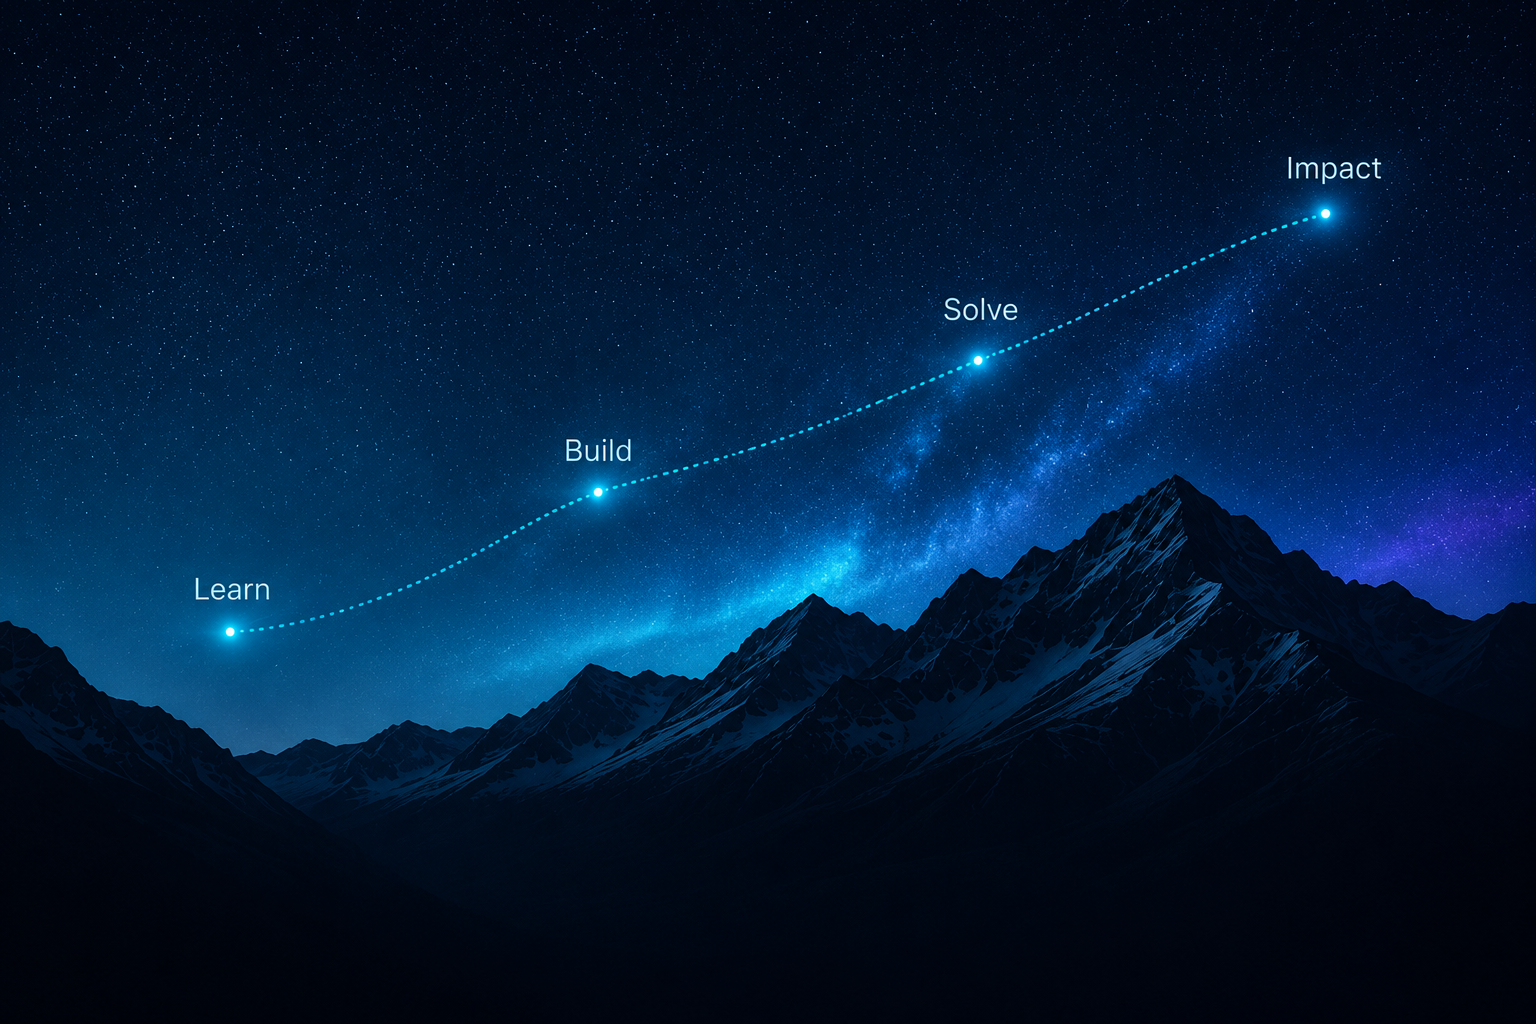
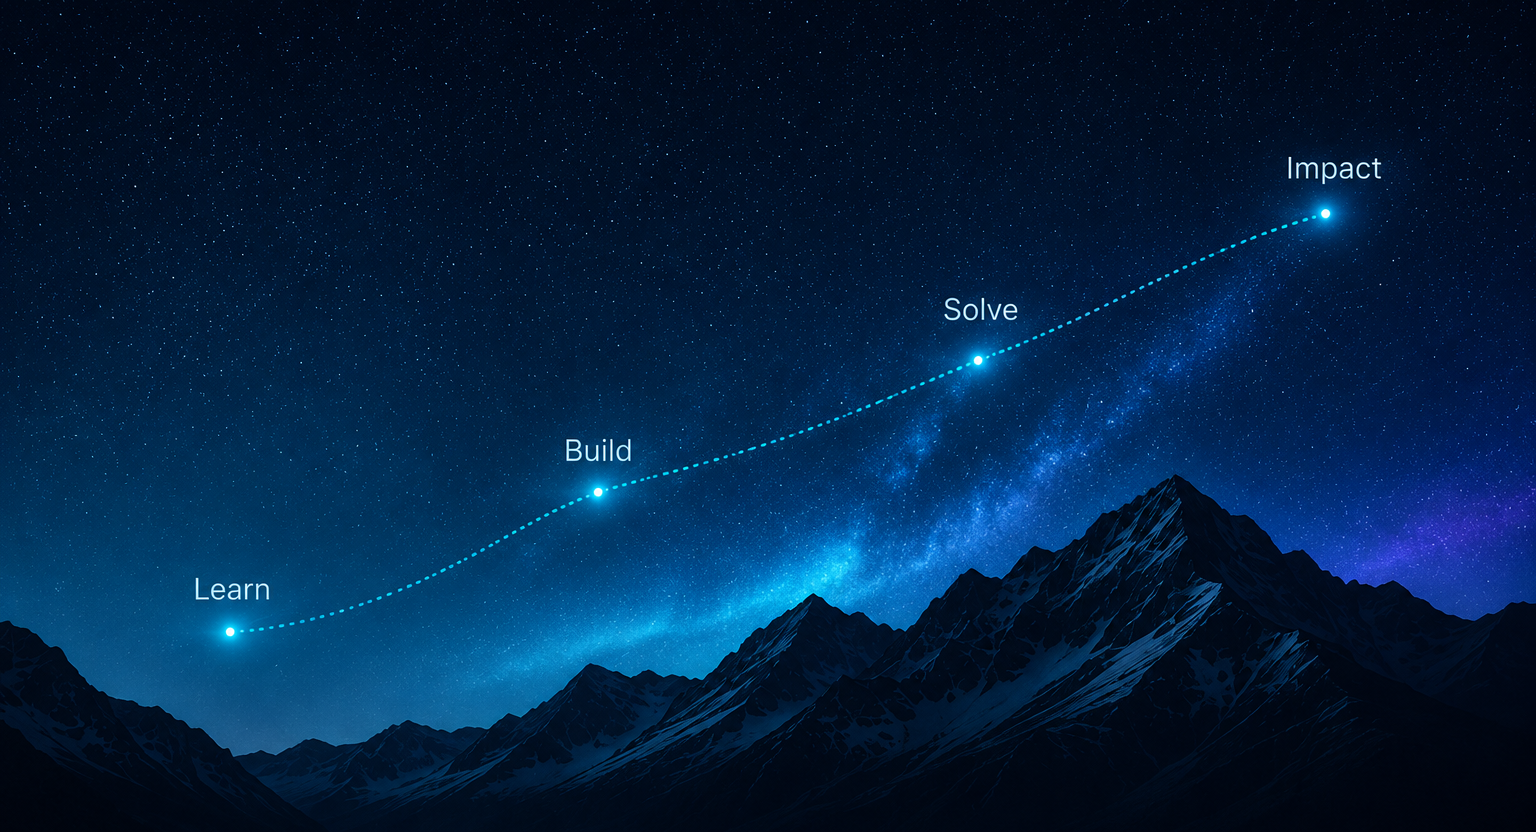
style: adjust background image size to contain and increase opacity for LEARN SOLVE BUILD IMPACT visibility

diff --git a/src/index.css b/src/index.css
@@ -52,25 +52,25 @@ code, pre, .font-mono {
   background: #06b6d4;
 }
 
-/* --- STILL BACKGROUND IMAGE & SLIDING TRANSPARENT GRID OVERLAY --- */
+/* --- STILL BACKGROUND IMAGE --- */
 #bg-still-image {
   background-image: url('/bg-still.png');
-  background-size: cover;
-  background-position: center;
+  background-size: contain;
+  background-position: center center;
   background-repeat: no-repeat;
   background-attachment: fixed;
   position: fixed;
   inset: 0;
   z-index: -3;
-  opacity: 0.25;
-  filter: contrast(1.1) brightness(0.9);
+  opacity: 0.55;
+  filter: contrast(1.15) brightness(1.05);
 }
 
 #bg-dark-overlay {
   position: fixed;
   inset: 0;
   z-index: -2;
-  background: radial-gradient(circle at 50% 30%, rgba(3, 7, 18, 0.4) 0%, rgba(3, 7, 18, 0.95) 85%);
+  background: radial-gradient(circle at 50% 40%, rgba(3, 7, 18, 0.2) 0%, rgba(3, 7, 18, 0.8) 85%);
   pointer-events: none;
 }
 

diff --git a/styles.css b/styles.css
@@ -56,25 +56,25 @@ code, pre, .font-mono {
   background: #06b6d4;
 }
 
-/* --- STILL BACKGROUND IMAGE & SLIDING TRANSPARENT GRID OVERLAY --- */
+/* --- STILL BACKGROUND IMAGE --- */
 #bg-still-image {
   background-image: url('bg-still.png');
-  background-size: cover;
-  background-position: center;
+  background-size: contain;
+  background-position: center center;
   background-repeat: no-repeat;
   background-attachment: fixed;
   position: fixed;
   inset: 0;
   z-index: -3;
   opacity: 0.55;
-  filter: contrast(1.1) brightness(1.0);
+  filter: contrast(1.15) brightness(1.05);
 }
 
 #bg-dark-overlay {
   position: fixed;
   inset: 0;
   z-index: -2;
-  background: radial-gradient(circle at 50% 30%, rgba(3, 7, 18, 0.4) 0%, rgba(3, 7, 18, 0.95) 85%);
+  background: radial-gradient(circle at 50% 40%, rgba(3, 7, 18, 0.2) 0%, rgba(3, 7, 18, 0.8) 85%);
   pointer-events: none;
 }
 
